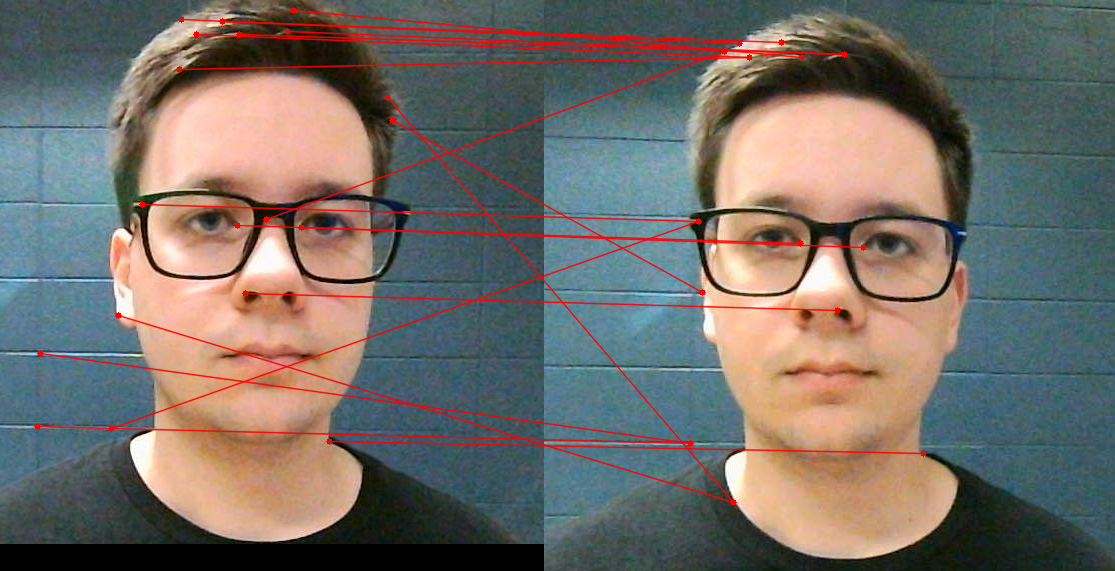
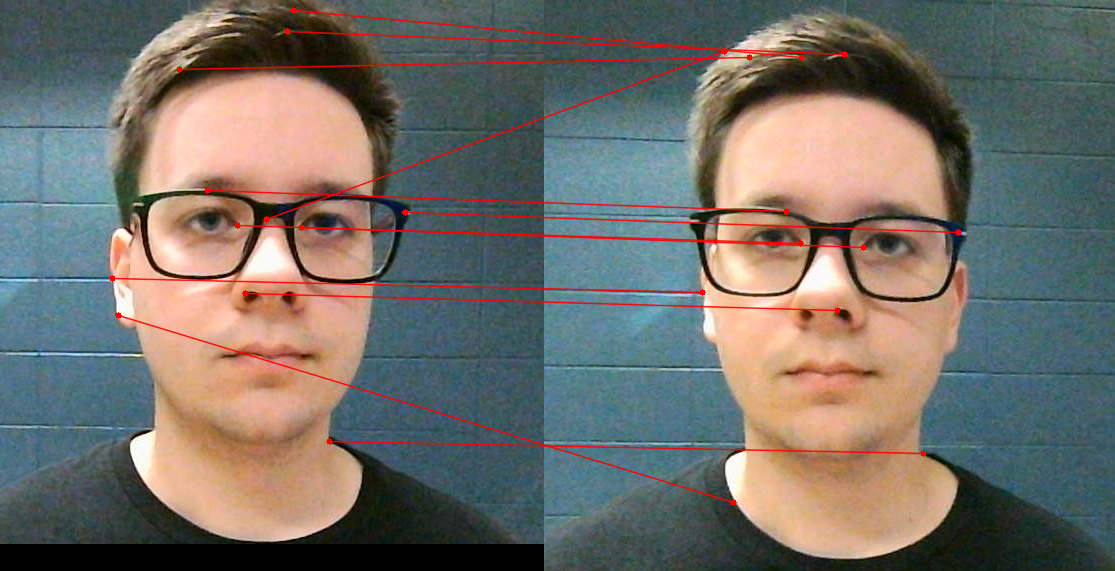
Refactorisation du code

diff --git a/Devoir2/mise_en_correspondance.py b/Devoir2/mise_en_correspondance.py
@@ -1,8 +1,10 @@
 import cv2
 import numpy as np
-
+from detecter_visage import detecter_visage
 
 def detecteur_harris(img, max_points=500, min_distance=5):
+    """Applique le détecteur de Harris afin de trouver tous les points d'intérêt (PI)
+    dans chacune des images"""
     gray_image = cv2.cvtColor(img, cv2.COLOR_BGR2GRAY)
     pts = cv2.goodFeaturesToTrack(
         gray_image,
@@ -18,12 +20,13 @@ def detecteur_harris(img, max_points=500, min_distance=5):
 
 
 def correlation_normalisee(img1, img2, pts1, pts2, W, seuil):
+    """Pour tous les PIs de l'image de gauche, calcule la corrélation normalisée avec tous les
+    PIs de l'image de droite et conserve comme correspondant le PI de l’image droite qui maximise la CN."""
     gray_img1 = cv2.cvtColor(img1, cv2.COLOR_BGR2GRAY)
     gray_img2 = cv2.cvtColor(img2, cv2.COLOR_BGR2GRAY)
 
     h, w = gray_img1.shape
-    correspondant_g = []
-    correspondant_d = []
+    meilleures_correspondances = {}
 
     for p1 in pts1:
         x1, y1 = int(p1[0]), int(p1[1])
@@ -67,13 +70,20 @@ def correlation_normalisee(img1, img2, pts1, pts2, W, seuil):
         # Validation du meilleur score par le seuil
         if meilleur_score > seuil:
             # On enregistre le couple de correspondant pour le point p1 actuel
-            correspondant_g.append(p1)
-            correspondant_d.append(meilleur_p2)
+            cle = tuple(meilleur_p2)
+            # On ne garde ce point droit que s'il n'a pas déjà un meilleur candidat
+            if cle not in meilleures_correspondances or meilleur_score > meilleures_correspondances[cle][0]:
+                meilleures_correspondances[cle] = (meilleur_score, p1)
+
+    # Reconstruction des listes finales à partir du dictionnaire (un seul p1 par p2)
+    correspondant_g = [p1 for (_, p1) in meilleures_correspondances.values()]
+    correspondant_d = [np.array(cle) for cle in meilleures_correspondances.keys()]
 
     return np.array(correspondant_g), np.array(correspondant_d)
 
 
 def matrice_fondamentale(pts_g, pts_d):
+    """Calcule la matrice fondamentale"""
     N = pts_g.shape[0]
     A = np.zeros((N, 9))
     # Construction de la matrice A n x 9 des coefficients du système
@@ -104,6 +114,7 @@ def matrice_fondamentale(pts_g, pts_d):
 
 
 def ransac(pcs_g, pcs_d, N_iterations, t_seuil):
+    """Estime la valeur de la matrice fondamentale F et la mise en correspondance par Ransac"""
     # Vérification du nombre de points (minimum 8 pour estimer F)
     num_pairs = pcs_g.shape[0]
     if num_pairs < 8:
@@ -113,31 +124,13 @@ def ransac(pcs_g, pcs_d, N_iterations, t_seuil):
     meilleur_S_k = None
     meilleure_F_initiale = None
 
-    # Coordonnées homogènes pour le calcul de la distance de sampson
-    ones = np.ones((num_pairs, 1))
-    pts_g_h = np.hstack((pcs_g, ones))
-    pts_d_h = np.hstack((pcs_d, ones))
-
     for k in range(N_iterations):
         # Choisir au hasard 8 paires et calculer F_k
         indices = np.random.choice(num_pairs, 8, replace=False)
         F_k = matrice_fondamentale(pcs_g[indices], pcs_d[indices])
 
         # Calculer la distance de sampson
-        # Numérateur : (p_d^T * F * p_g)
-        num = np.sum(np.dot(pts_d_h, F_k) * pts_g_h, axis=1)
-
-        # Dénominateur : ||F_k * p_g||^2 + ||F_k^T * p_d||^2 (uniquement composantes x et y en 2D)
-        F_pg = np.dot(pts_g_h, F_k.T)
-        pd_F = np.dot(pts_d_h, F_k)
-        denom = (
-            F_pg[:, 0] ** 2
-            + F_pg[:, 1] ** 2
-            + pd_F[:, 0] ** 2
-            + pd_F[:, 1] ** 2
-        )
-
-        d_i = (num**2) / (denom + 1e-12)
+        d_i = distance_sampson(F_k, pcs_g, pcs_d)
 
         # Construction de l'ensemble consensus S_k (retrait des valeurs abberantes)
         condition = d_i < t_seuil
@@ -161,7 +154,26 @@ def ransac(pcs_g, pcs_d, N_iterations, t_seuil):
     return F_optimisee, (regulier_g, regulier_d), (abberant_g, abberant_d)
 
 
-def dessiner_correspondances(img1, img2, pts1, pts2, couleur, epaisseur =1):
+def distance_sampson(F, pts_g, pts_d):
+    """Calcule la distance de Sampson pour chaque paire de points.
+    Estime l'erreur de reprojection par rapport à la contrainte épipolaire."""
+    N = len(pts_g)
+    ones = np.ones((N, 1))
+    pts_g_h = np.hstack([pts_g, ones])
+    pts_d_h = np.hstack([pts_d, ones])
+
+    num = np.sum(np.dot(pts_d_h, F) * pts_g_h, axis=1)
+
+    F_pg = np.dot(pts_g_h, F.T)
+    pd_F = np.dot(pts_d_h, F)
+    denom = F_pg[:, 0]**2 + F_pg[:, 1]**2 + pd_F[:, 0]**2 + pd_F[:, 1]**2
+
+    return (num**2) / (denom + 1e-12)
+
+
+def dessiner_correspondances(img1, img2, pts1, pts2, couleur, epaisseur=1):
+    """Colle les deux images côte à côte et trace une ligne entre chaque
+    paire de points correspondants."""
     h1, w1 = img1.shape[:2]
     h2, w2 = img2.shape[:2]
     h = max(h1, h2)
@@ -179,37 +191,17 @@ def dessiner_correspondances(img1, img2, pts1, pts2, couleur, epaisseur =1):
 
     return canvas
 
-def calculer_erreur_epipolaire(F, pts_g, pts_d):
-    """Calcule l'erreur de Sampson pour chaque paire de points."""
-    N = len(pts_g)
-    ones = np.ones((N, 1))
-    pts_g_h = np.hstack([pts_g, ones])
-    pts_d_h = np.hstack([pts_d, ones])
-
-    numerateur = np.abs(np.sum((pts_d_h @ F) * pts_g_h, axis=1))
-
-    F_pg = pts_g_h @ F.T
-    norme_F_pg = F_pg[:, 0]**2 + F_pg[:, 1]**2
-
-    Ft_pd = pts_d_h @ F
-    norme_Ft_pd = Ft_pd[:, 0]**2 + Ft_pd[:, 1]**2
-
-    denominateur = np.sqrt(norme_F_pg + norme_Ft_pd)
-    denominateur = np.maximum(denominateur, 1e-12)
-
-    return numerateur / denominateur
-
 
 if __name__ == "__main__" :
 
     img_g = cv2.imread("visage/charles/left_01.jpg")
     img_d = cv2.imread("visage/charles/right_01.jpg")
 
-    # Coordonnées obtenues par detecter_visage.py afin de restreindre la mise en correspondance au visage
-    roi_g = (766, 142, 544, 544)
-    roi_d = (603, 144, 571, 571)
-    xg, yg, wg, hg = roi_g
-    xd, yd, wd, hd = roi_d
+    # Restreint la mise en correspondance au visage
+    region_gauche = detecter_visage(img_g, marge=0.3)
+    region_droite = detecter_visage(img_d, marge=0.3)
+    xg, yg, wg, hg = region_gauche
+    xd, yd, wd, hd = region_droite
 
     img_g_visage = img_g[yg:yg+hg, xg:xg+wg]
     img_d_visage = img_d[yd:yd+hd, xd:xd+wd]
@@ -223,18 +215,13 @@ if __name__ == "__main__" :
     pcs_g, pcs_d = correlation_normalisee(img_g_visage, img_d_visage, pts_g, pts_d, W=7, seuil=0.75)
     print(f"Correspondances avant RANSAC : {len(pcs_g)}")
 
-    # Vérifier qu'on a bien 8 correspondances minimalement
-    if len(pcs_g) < 8:
-        raise RuntimeError(
-            f"Seulement {len(pcs_g)} correspondances trouvées (minimum 8 requis). ")
-
     # Calculer la matrice fondamentale et les correspondances
     F, (reguliers_g, reguliers_d), (abberants_g, abberants_d) = ransac(pcs_g, pcs_d, N_iterations=2000, t_seuil=0.5)
 
     print(f"Matrice fondamentale F : {F}")
 
     # Affichage de toutes les correspondances
-    erreur_reguliers = calculer_erreur_epipolaire(F, reguliers_g, reguliers_d)
+    erreur_reguliers = distance_sampson(F, reguliers_g, reguliers_d)
     print("\n--- Liste de toutes les correspondances validées par RANSAC ---")
     print(f"MC régulières : {len(reguliers_g)}")
     for i, (pt_g, pt_d) in enumerate(zip(reguliers_g, reguliers_d)):
@@ -243,10 +230,10 @@ if __name__ == "__main__" :
         xd, yd = pt_d
 
         print(
-            f"Correspondance n°{i + 1:3d} : Gauche({xg:7.2f}, {yg:7.2f}) <-> Droite({xd:7.2f}, {yd:7.2f})")
+            f"Correspondance n°{i + 1:3d} : Gauche({xg:7.2f}, {yg:7.2f}), Droite({xd:7.2f}, {yd:7.2f})")
         print(f"Erreur epipolaire : {erreur_reguliers[i]}\n")
 
-    erreur_abberants = calculer_erreur_epipolaire(F, abberants_g, abberants_d)
+    erreur_abberants = distance_sampson(F, abberants_g, abberants_d)
     print("\n--- Liste de toutes les correspondances rejetées par RANSAC ---")
     print(f"MC aberrantes : {len(abberants_g)}")
     for i, (pt_g, pt_d) in enumerate(zip(abberants_g, abberants_d)):
@@ -255,10 +242,10 @@ if __name__ == "__main__" :
         xd, yd = pt_d
 
         print(
-            f"Correspondance n°{i + 1:3d} : Gauche({xg:7.2f}, {yg:7.2f}) <-> Droite({xd:7.2f}, {yd:7.2f})")
+            f"Correspondance n°{i + 1:3d} : Gauche({xg:7.2f}, {yg:7.2f}), Droite({xd:7.2f}, {yd:7.2f})")
         print(f"Erreur epipolaire : {erreur_abberants[i]}\n")
 
-    # Visualisation des points aberrants et retenus sur l'image du visage
+    # Visualisation des points aberrants et validés sur l'image du visage
     img_regulieres = dessiner_correspondances(img_g_visage, img_d_visage, reguliers_g, reguliers_d, (0,255,0))
     img_aberrantes = dessiner_correspondances(img_g_visage, img_d_visage, abberants_g, abberants_d, (0,0,255))
 

diff --git a/Devoir2/detecter_visage.py b/Devoir2/detecter_visage.py
@@ -1,30 +1,12 @@
-"""
-Détection automatique de la région du visage (ROI) dans une paire d'images
-stéréo, à l'aide du détecteur Haar Cascade fourni avec OpenCV.
-
-Utilisation :
-    python detecter_visage.py --gauche visage/left_01.jpg --droite visage/right_01.jpg
-"""
-
-import argparse
 import cv2
-import numpy as np
-
 
 def detecter_visage(img, marge=0.3):
     """Détecte le plus grand visage dans l'image et retourne une boîte
     englobante (x, y, w, h) avec une marge ajoutée autour.
-
-    marge : fraction de la taille du visage à ajouter de chaque côté
-            (0.3 = 30% de marge, pour inclure un peu de contexte autour
-            du visage sans aller jusqu'au chandail/arrière-plan)
     """
     gray = cv2.cvtColor(img, cv2.COLOR_BGR2GRAY)
 
-    # Chemin du classifieur Haar fourni avec OpenCV
-    cascade_path = cv2.data.haarcascades + "haarcascade_frontalface_default.xml"
-    face_cascade = cv2.CascadeClassifier(cascade_path)
-
+    face_cascade = cv2.CascadeClassifier(cv2.data.haarcascades + "haarcascade_frontalface_default.xml")
     visages = face_cascade.detectMultiScale(
         gray,
         scaleFactor=1.1,
@@ -32,11 +14,7 @@ def detecter_visage(img, marge=0.3):
         minSize=(80, 80)
     )
 
-    if len(visages) == 0:
-        return None
-
-    # Si plusieurs visages détectés, on garde le plus grand (le plus proche/évident)
-    x, y, w, h = max(visages, key=lambda v: v[2] * v[3])
+    x, y, w, h = visages[0]
 
     # Ajout d'une marge autour du visage détecté
     mx = int(w * marge)
@@ -48,60 +26,4 @@ def detecter_visage(img, marge=0.3):
     x1 = min(w_img, x + w + mx)
     y1 = min(h_img, y + h + my)
 
-    return (x0, y0, x1 - x0, y1 - y0)
-
-
-def parse_args():
-    parser = argparse.ArgumentParser(description="Détection de la région du visage")
-    parser.add_argument("--gauche", type=str, required=True)
-    parser.add_argument("--droite", type=str, required=True)
-    parser.add_argument("--marge", type=float, default=0.3, help="Marge autour du visage (fraction)")
-    parser.add_argument("--out_prefix", type=str, default="visage_detecte")
-    return parser.parse_args()
-
-
-def main():
-    args = parse_args()
-
-    img_g = cv2.imread(args.gauche)
-    img_d = cv2.imread(args.droite)
-
-    if img_g is None or img_d is None:
-        raise FileNotFoundError("Impossible de lire une des deux images.")
-
-    roi_g = detecter_visage(img_g, args.marge)
-    roi_d = detecter_visage(img_d, args.marge)
-
-    if roi_g is None:
-        print("[AVERTISSEMENT] Aucun visage détecté dans l'image gauche.")
-    else:
-        print(f"Visage détecté (gauche) : x={roi_g[0]}, y={roi_g[1]}, w={roi_g[2]}, h={roi_g[3]}")
-
-    if roi_d is None:
-        print("[AVERTISSEMENT] Aucun visage détecté dans l'image droite.")
-    else:
-        print(f"Visage détecté (droite) : x={roi_d[0]}, y={roi_d[1]}, w={roi_d[2]}, h={roi_d[3]}")
-
-    # Visualisation : dessiner le rectangle détecté sur chaque image
-    vis_g = img_g.copy()
-    vis_d = img_d.copy()
-
-    if roi_g:
-        x, y, w, h = roi_g
-        cv2.rectangle(vis_g, (x, y), (x + w, y + h), (0, 255, 0), 3)
-    if roi_d:
-        x, y, w, h = roi_d
-        cv2.rectangle(vis_d, (x, y), (x + w, y + h), (0, 255, 0), 3)
-
-    cv2.imwrite(f"{args.out_prefix}_gauche.png", vis_g)
-    cv2.imwrite(f"{args.out_prefix}_droite.png", vis_d)
-    print(f"\nVérifiez visuellement : {args.out_prefix}_gauche.png / {args.out_prefix}_droite.png")
-
-    if roi_g and roi_d:
-        print(f"\n--- À utiliser dans votre script principal ---")
-        print(f"roi_g = {roi_g}  # (x, y, w, h)")
-        print(f"roi_d = {roi_d}  # (x, y, w, h)")
-
-
-if __name__ == "__main__":
-    main()
+    return x0, y0, x1 - x0, y1 - y0

diff --git a/Devoir2/separer_photo.py b/Devoir2/separer_photo.py
@@ -1,49 +1,14 @@
-"""
-Découpe des images stéréo combinées (gauche | droite côte à côte) en deux images séparées.
-
-Vos photos ressemblent à celle jointe : une seule image contenant la vue gauche
-et la vue droite collées horizontalement. Ce script les sépare en deux fichiers
-prêts à être utilisés par calibrage_stereo.py.
-
-Organisation :
-    photos_combinees/*.jpg   (vos 8 photos telles quelles)
-        -> calib_images/left_01.jpg, left_02.jpg, ...
-        -> calib_images/right_01.jpg, right_02.jpg, ...
-
-Utilisation :
-    python decouper_images.py --input "photos_combinees/*.jpg" --out calib_images
-"""
-
-import argparse
 import glob
 import os
-
 import cv2
 
+def separer_images(dossier_entree, dossier_sortie):
+    os.makedirs(dossier_sortie, exist_ok=True)
 
-def parse_args():
-    parser = argparse.ArgumentParser(description="Découpe des images stéréo combinées")
-    parser.add_argument("--input", type=str, default="photos_combinees/*.jpg",
-                         help="Motif glob des photos combinées")
-    parser.add_argument("--out", type=str, default="calib_images",
-                         help="Dossier de sortie pour les images gauche/droite")
-    return parser.parse_args()
-
-
-def main():
-    args = parse_args()
-    os.makedirs(args.out, exist_ok=True)
-
-    fichiers = sorted(glob.glob(args.input))
-    if not fichiers:
-        print("Aucune image trouvée avec ce motif.")
-        return
+    fichiers = sorted(glob.glob(os.path.join(dossier_entree, "*.jpg")))
 
     for i, fpath in enumerate(fichiers, start=1):
         img = cv2.imread(fpath)
-        if img is None:
-            print(f"[AVERTISSEMENT] Impossible de lire {fpath}, ignorée.")
-            continue
 
         h, w = img.shape[:2]
         milieu = w // 2
@@ -51,17 +16,14 @@ def main():
         img_gauche = img[:, :milieu]
         img_droite = img[:, milieu:]
 
-        nom_gauche = os.path.join(args.out, f"left_{i:02d}.jpg")
-        nom_droite = os.path.join(args.out, f"right_{i:02d}.jpg")
+        nom_gauche = os.path.join(dossier_sortie, f"left_{i:02d}.jpg")
+        nom_droite = os.path.join(dossier_sortie, f"right_{i:02d}.jpg")
 
         cv2.imwrite(nom_gauche, img_gauche)
         cv2.imwrite(nom_droite, img_droite)
 
-        print(f"{os.path.basename(fpath)} -> {nom_gauche} ({img_gauche.shape[1]}x{img_gauche.shape[0]}), "
-              f"{nom_droite} ({img_droite.shape[1]}x{img_droite.shape[0]})")
-
-    print(f"\nTerminé. Images séparées dans le dossier : {args.out}")
-
 
 if __name__ == "__main__":
-    main()
+    dossier_entree = "photos_damier/experimentation_damier_udes"
+    dossier_sortie = "calib_images/calib_images_udes"
+    separer_images(dossier_entree, dossier_sortie)
